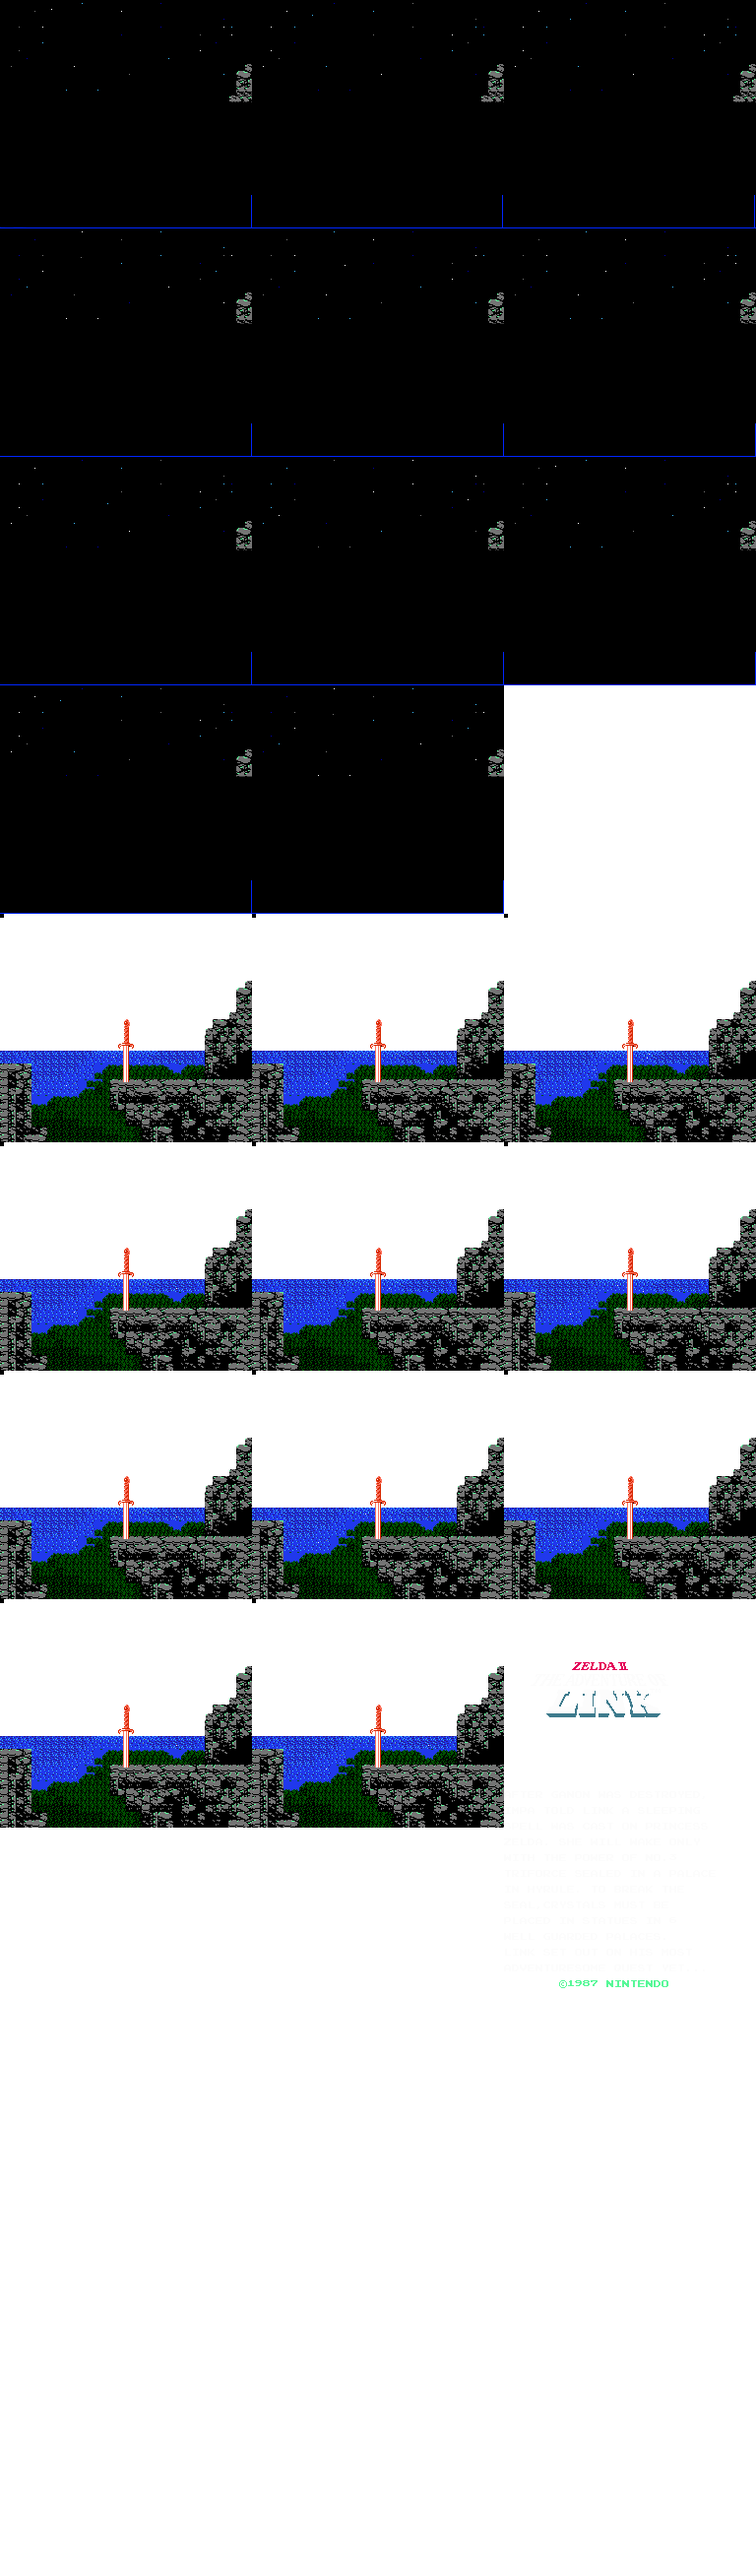
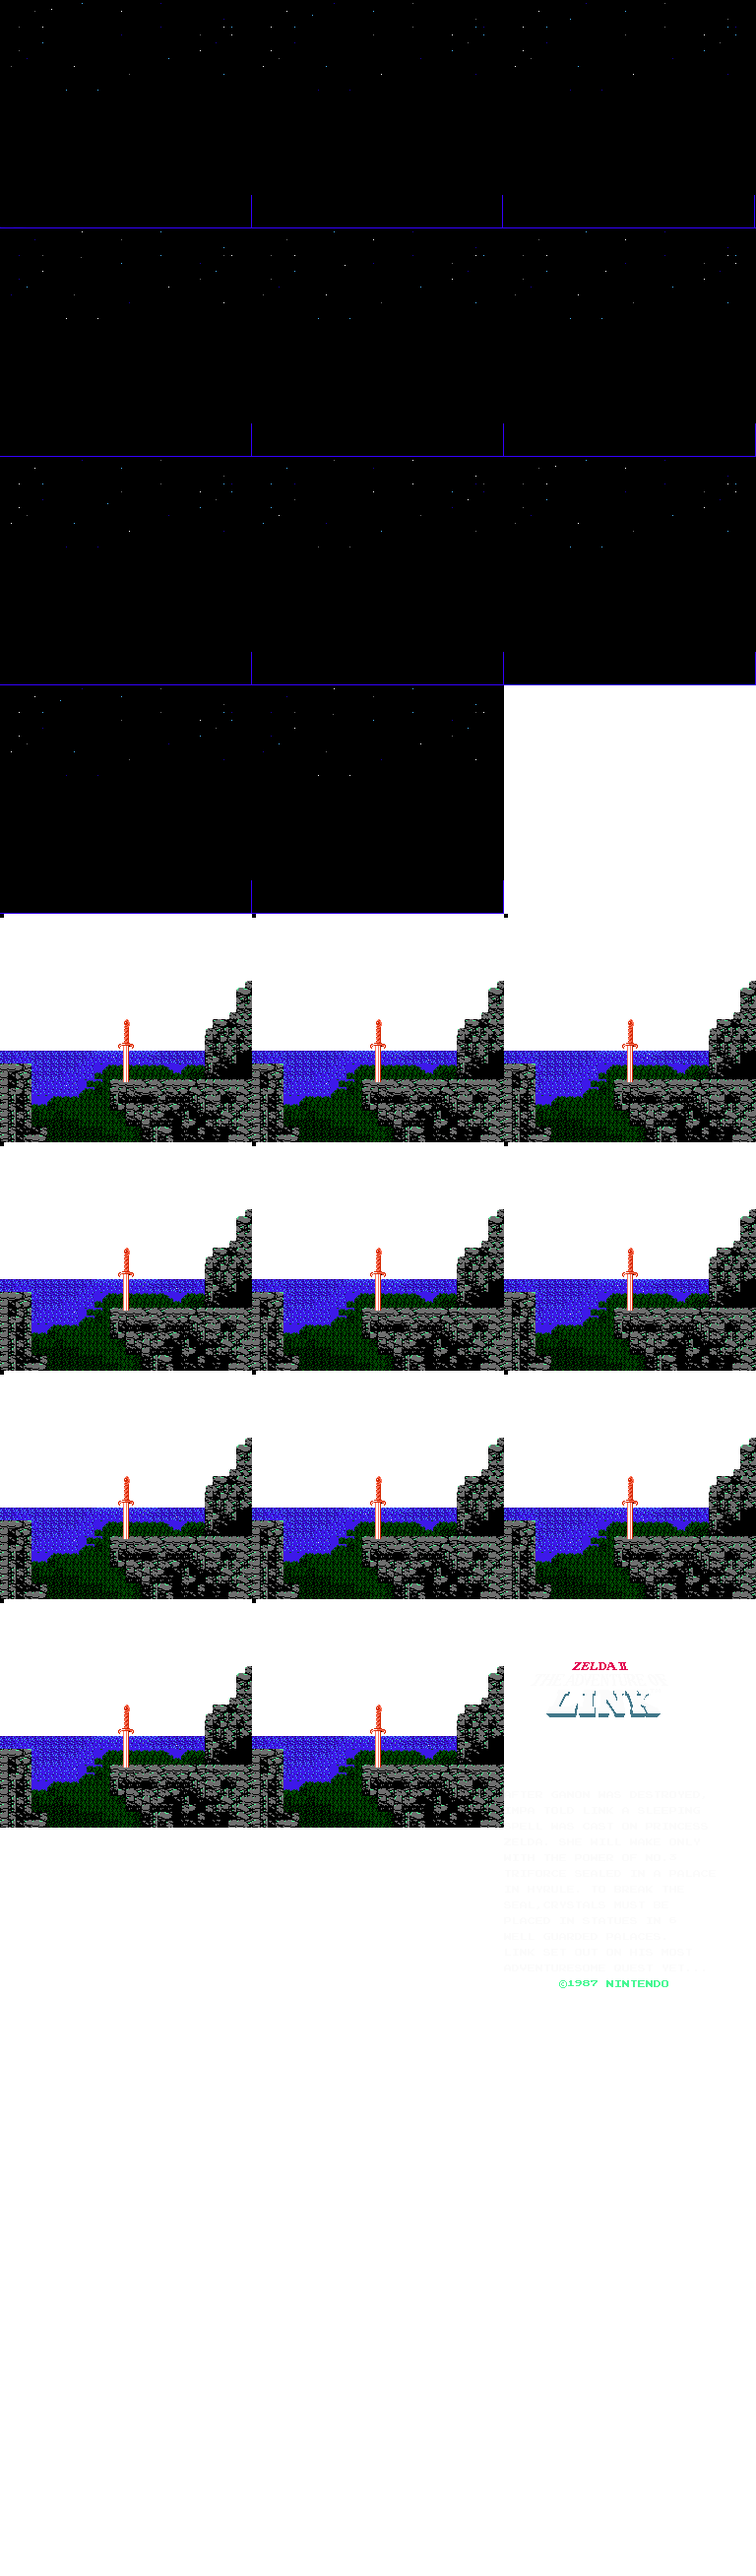
Added Intro

diff --git a/Zelda2_Demo/Intro.cpp b/Zelda2_Demo/Intro.cpp
@@ -1,0 +1,46 @@
+#include "Intro.h"
+using namespace std;
+
+Intro::Intro() {
+	Sheet->loadFromFile("Media/IntroBG.png");
+	Theme.openFromFile("Media/Theme.wav");
+	BG->setTexture(*Sheet);
+	Front->setTexture(*Sheet);
+	Logo->setTexture(*Sheet);
+	Logo->setPosition((256/2)-(215/2)+10,233);
+	Logo->setTextureRect(sf::IntRect(512,1680,215,340));
+	Theme.play();
+}
+
+Intro::~Intro() {
+	delete Sheet, BG, Front, Logo;
+}
+
+void Intro::Update(float &delta) {
+	if (active) {
+		cnt += 6 * delta;
+		if (Logo->getPosition().y > 36) {
+			Logo->move(0, -11 * delta);
+		}
+		if (cnt > 160) Logo->move(0, -8.7 * delta);
+		if (cnt > 420) {
+			cnt = 0;
+			Logo->setPosition((256 / 2) - (215 / 2) + 10, 140);
+		}
+		BG->setTextureRect(sf::IntRect(256 * ((int)cnt % 2), 232 * ((int)cnt % 3), 256, 232));
+		Front->setTextureRect(sf::IntRect(256 * ((int)cnt % 2), 1160 + (232 * ((int)cnt % 3)), 256, 232));
+	}
+	else {
+		Theme.stop();
+	}
+}
+
+void Intro::Render(sf::RenderWindow *app) {
+	if (active) {
+		app->draw(*BG);
+		app->draw(*Logo);
+		app->draw(*Front);
+	}
+}
+
+

diff --git a/Zelda2_Demo/Game.cpp b/Zelda2_Demo/Game.cpp
@@ -1,21 +1,19 @@
 #include "Game.h"
 
 Game::Game(sf::RenderWindow *app) : App(app) {
-	view1.setCenter(sf::Vector2f(App->getSize().x / 2, App->getSize().y / 2));
-	view1.setSize(sf::Vector2f(App->getSize().x, App->getSize().y));
-
+	view1.setCenter(sf::Vector2f(256 / 2, 232 / 2));
+	view1.setSize(sf::Vector2f(256, 232));
 }
 
 void Game::Update() {
-
-
+	intro->Update(delta);
 }
 
 void Game::Rendering() {
 	App->clear();
 	App->setView(view1);
 
-
+	intro->Render(App);
 
 	App->display();
 }
@@ -30,6 +28,7 @@ void Game::EventHandling() {
 		case sf::Keyboard::A: Left = true; break;
 		case sf::Keyboard::S: Down = true; break;
 		case sf::Keyboard::D: Right = true; break;
+		case sf::Keyboard::Space: intro->Disable(); break;
 		}break;
 	case sf::Event::KeyReleased:
 		switch (event.key.code) {
@@ -85,5 +84,5 @@ void Game::KeyCheck() {
 
 Game::~Game() {
 	App->close();
-	delete  App;
+	delete  intro, App;
 }

diff --git a/Zelda2_Demo/main.cpp b/Zelda2_Demo/main.cpp
@@ -1,11 +1,14 @@
+#define NOMINMAX
 #include <iostream>
+#include <Windows.h>
 #ifndef  GRAPHICS_HPP
 #include <SFML\Graphics.hpp>
 #endif
 #include "Game.h"
 
-int main(int ergc, char** argv) {
-	sf::RenderWindow *App = new sf::RenderWindow(sf::VideoMode(1300, 700), "Sample_Title", sf::Style::Titlebar | sf::Style::Close);
+int main(int argc, char** argv) {
+	//FreeConsole();
+	sf::RenderWindow *App = new sf::RenderWindow(sf::VideoMode(256*3,232*3), "Zelda2_Demo", sf::Style::Titlebar | sf::Style::Close);
 	App->setFramerateLimit(60);
 	App->setKeyRepeatEnabled(false);
 
@@ -18,7 +21,7 @@ int main(int ergc, char** argv) {
 		game->KeyCheck();
 		game->Rendering();
 		sf::Time elapsed2 = elapsed1 - timer.getElapsedTime();
-		game->delta = -elapsed2.asMilliseconds();
+		game->delta = -elapsed2.asSeconds();
 	}
 	delete game, App;
 	return 0;

diff --git a/Zelda2_Demo/Intro.h b/Zelda2_Demo/Intro.h
@@ -1,0 +1,27 @@
+#pragma once
+#include <iostream>
+#ifndef  GRAPHICS_HPP
+#include <SFML\Graphics.hpp>
+#endif
+#ifndef  AUDIO_HPP
+#include <SFML\Audio.hpp>
+#endif
+
+class Intro {
+public:
+	Intro();
+	~Intro();
+	void Update(float &delta);
+	void Render(sf::RenderWindow *app);
+	void Disable() { active = false; };
+private:
+	bool active = true;
+	float cnt = 0;
+
+	sf::Texture *Sheet = new sf::Texture();
+	sf::Sprite *BG = new sf::Sprite();
+	sf::Sprite *Front = new sf::Sprite();
+	sf::Sprite *Logo = new sf::Sprite();
+	sf::Music Theme;
+};
+

diff --git a/Zelda2_Demo/Game.h b/Zelda2_Demo/Game.h
@@ -3,16 +3,17 @@
 #ifndef  GRAPHICS_HPP
 #include <SFML\Graphics.hpp>
 #endif
+#include "Intro.h"
 
 class Game {
 public:
 	Game(sf::RenderWindow *app); ~Game();
-	sf::RenderWindow *App;
-	sf::Event event;
-	sf::View view1;
+	sf::RenderWindow *App; sf::Event event; sf::View view1;
 	float delta;
 	char Hkey = 0, Vkey = 0;
 	bool Up, Down, Right, Left;
+
+	Intro *intro = new Intro();
 
 	void Update();
 	void EventHandling();
